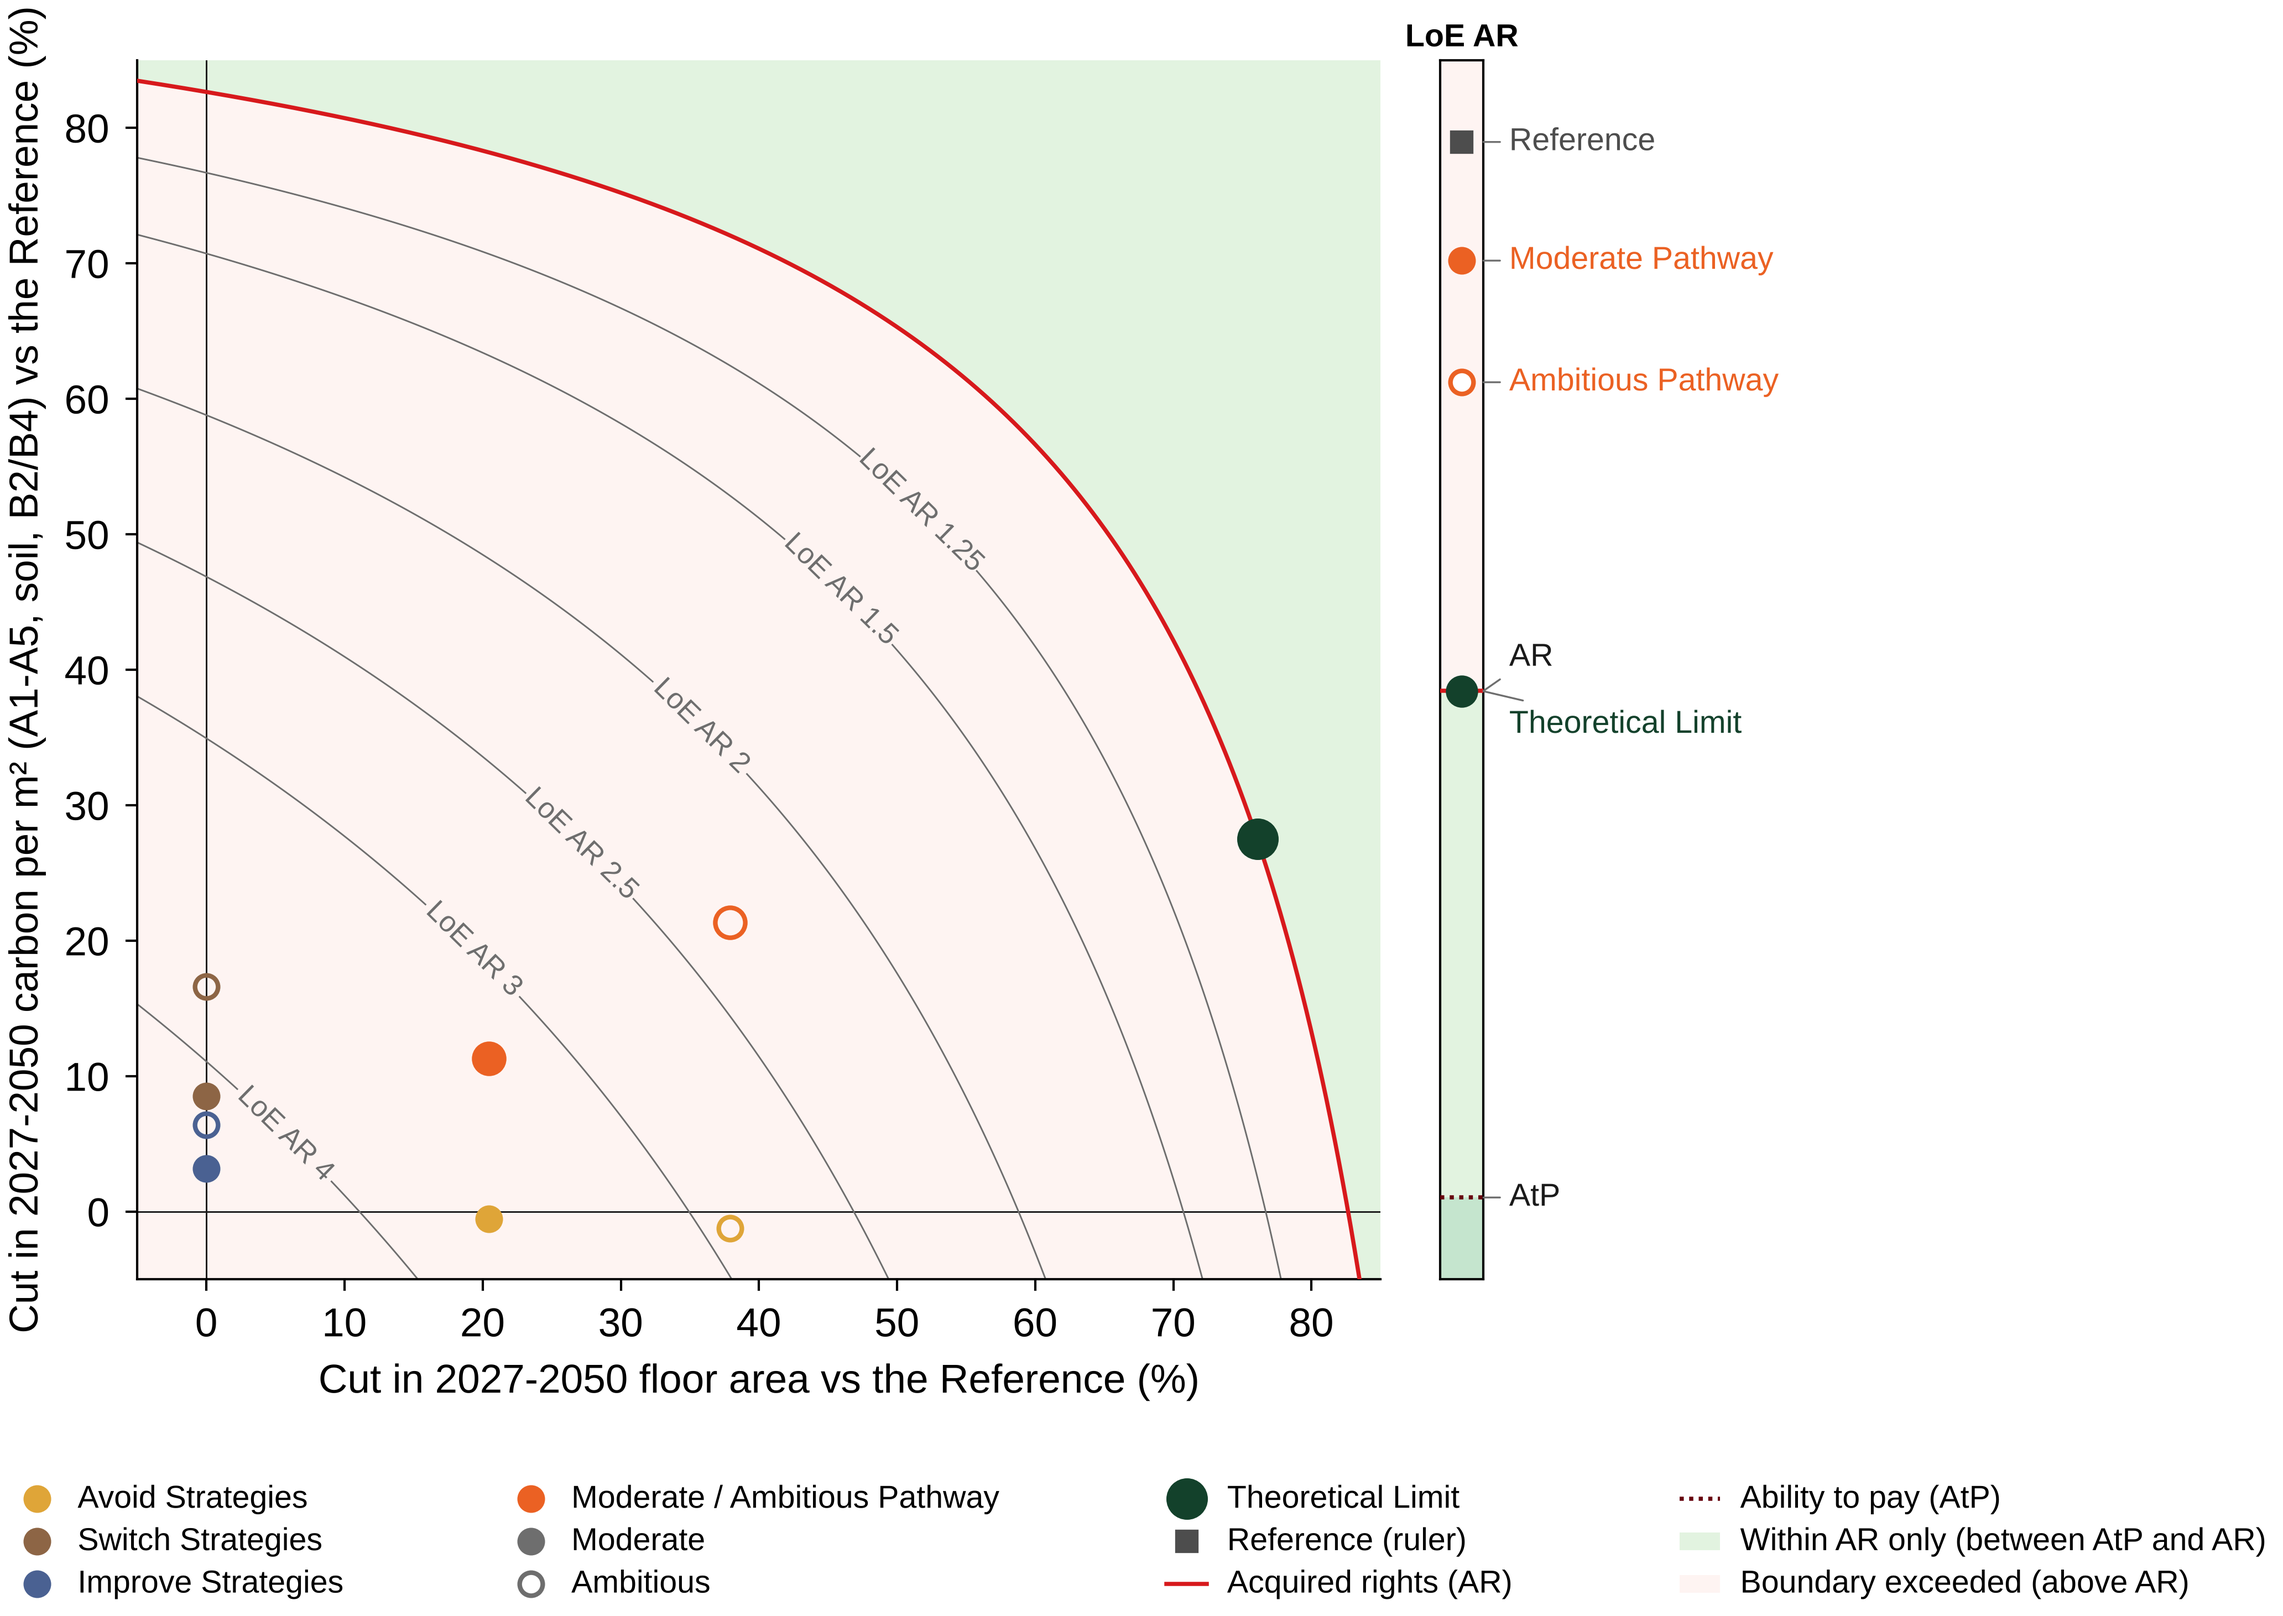
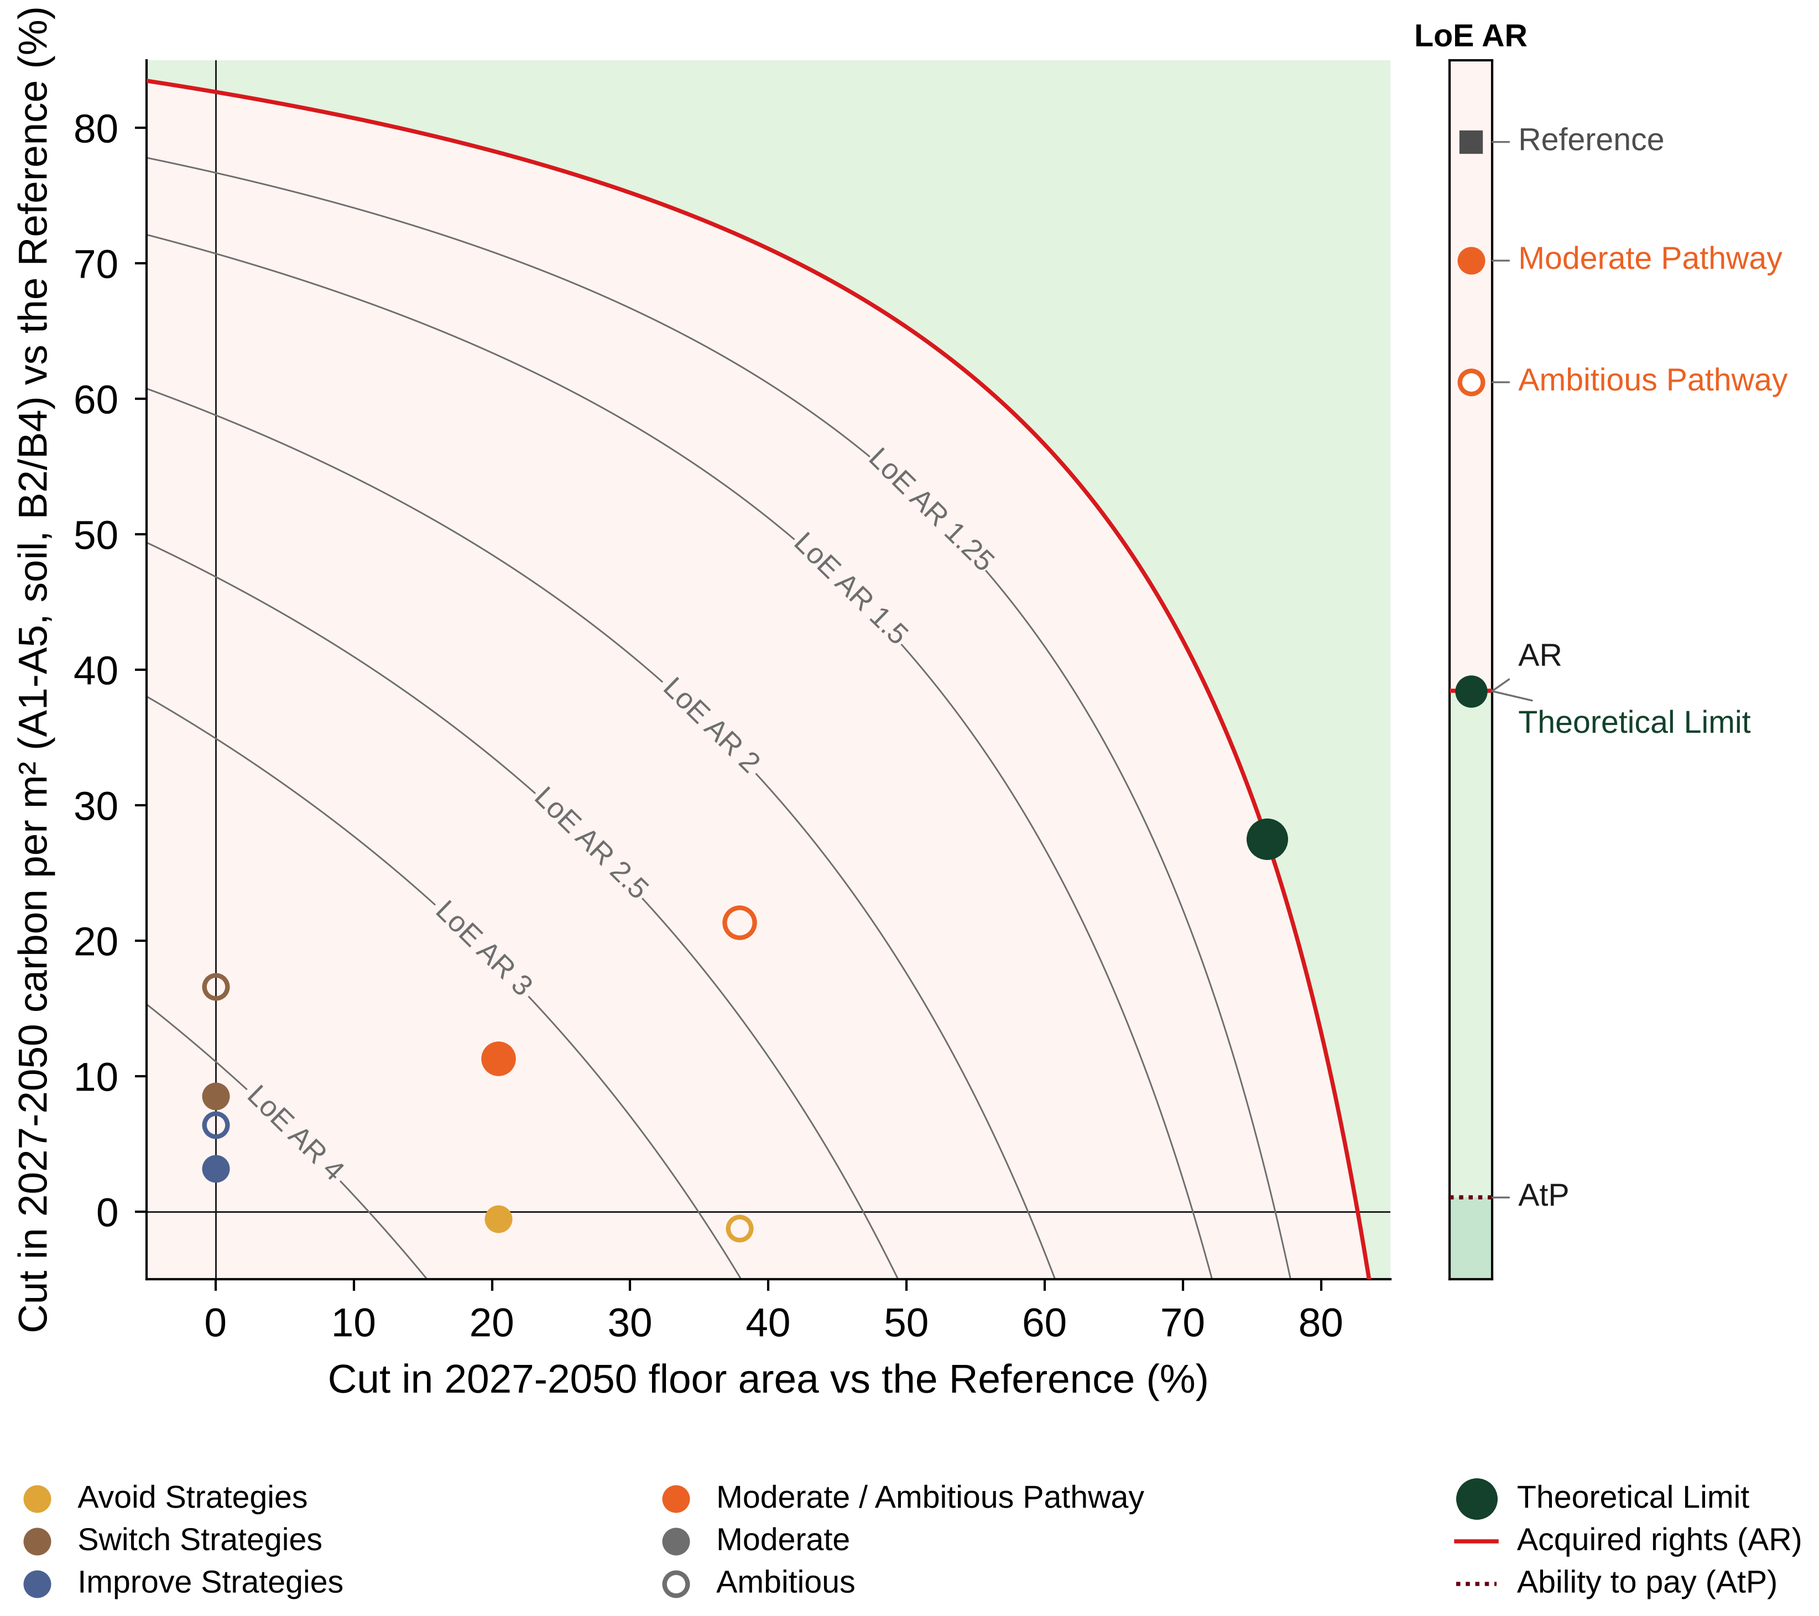
v4.2.2: final figure tweaks (Fig2, Fig3, Fig4, Fig6, Fig7, Fig8); figures-only export, data byte-identical
Claude-Session: https://claude.ai/code/session_01NA1ucL7dNsMwx6AQKd8NQE

diff --git a/figures/paper_main.py b/figures/paper_main.py
@@ -324,7 +324,7 @@ def fig2():
     years = band.index.values.astype(float)
     total = stg['carbon_kt'].values
     fig = plt.figure(figsize=S.figsize('double', 82))
-    gs = fig.add_gridspec(1, 4, width_ratios=[1, 1, 1, 0.62], wspace=0.12)
+    gs = fig.add_gridspec(1, 5, width_ratios=[1, 1, 1, 0.30, 0.62], wspace=0.12)   # MODEL v4.2.2: d axis on the left
     ax = [fig.add_subplot(gs[0])]
     ax += [fig.add_subplot(gs[k], sharey=ax[0]) for k in (1, 2)]
     P.stack_series(ax[0], years, [(b, band[b].values) for b in band.columns], net=total)
@@ -363,9 +363,10 @@ def fig2():
         h.set_label({'Market balance (excess, residual and scope adjustments)': 'Market balance',
                      'Household-size change': 'Household size', 'Maintenance (B2, B4)': 'Maintenance'}
                     .get(h.get_label(), h.get_label()))
+        h.set_label(h.get_label().replace(' ', '\n', 1))           # MODEL v4.2.2: two lines per entry
     ax[0].legend(handles=hb2, ncol=2, columnspacing=0.8, **LEG)
     # (d) cumulative 2026-2050: three attached columns of the same total
-    d = fig.add_subplot(gs[3])
+    d = fig.add_subplot(gs[4])
     c = float(total.sum())
     bsum = band.sum()
     msum = mat.sum()
@@ -389,15 +390,11 @@ def fig2():
     d.set_xlim(-0.5, 2.5)
     d.set_xticks([0, 1, 2])
     d.set_xticklabels(['By\ndemand', 'By\nmaterial', 'By\nstage'], fontsize=S.FONT_MIN + 0.5)
-    d.yaxis.tick_right()
-    d.yaxis.set_label_position('right')
-    d.spines['right'].set_visible(True)
-    d.spines['left'].set_visible(False)
     d.set_ylabel('Cumulative carbon 2026-2050 (kt CO₂e)')
     P.thousands(d.yaxis)
     d.grid(axis='x', visible=False)
     P.panel(d, 'd', 'Cumulative')
-    fig.subplots_adjust(left=0.07, right=0.93, bottom=0.12, top=0.92)
+    fig.subplots_adjust(left=0.07, right=0.99, bottom=0.12, top=0.92)
     _save(fig, 'Fig2_reference_carbon', note=f'2026-2050: {c:,.0f} kt CO₂e; (d) the demand column: positive bands '
                                               f'stacked to {sum(v for v in bsum if v > 0):,.0f} kt, negative bands '
                                               'outlined, hanging down to the total.')
@@ -432,7 +429,7 @@ def fig3():
     proj = D.js('baseline/projection.json')
     years = a.index.values.astype(float)
     fig = plt.figure(figsize=S.figsize('double', 66))                # MODEL v4.2.2: lower
-    gs = fig.add_gridspec(1, 2, width_ratios=[2.3, 1.2], wspace=0.28)
+    gs = fig.add_gridspec(1, 2, width_ratios=[2.3, 0.95], wspace=0.26)
     ax = fig.add_subplot(gs[0])
     ar, atp = a['B_AR_kgCO2e'].values / M, a['B_AtP_kgCO2e'].values / M
     S.boundary_zones(ax, years, ar, atp)
@@ -455,7 +452,7 @@ def fig3():
     zones = [h for h in S.zone_handles() if h.get_label() != S.ZONE['exceeded']['label']]
     ax.legend(handles=ax.get_legend_handles_labels()[0] + zones, loc='upper right', fontsize=S.FONT_MIN, ncol=2,
               columnspacing=1.0, frameon=False)
-    ax.set_ylim(0, ax.get_ylim()[1] * 1.22)                         # room for the two-column legend
+    ax.set_ylim(0, 1650)                                              # MODEL v4.2.2
     b = fig.add_subplot(gs[1])
     c = float(proj['carbon_kt'])
     lo95, hi95 = mc_cumulative_interval()
@@ -470,12 +467,12 @@ def fig3():
     bar_, batp = float(a['B_AR_kgCO2e'].sum()) / M, float(a['B_AtP_kgCO2e'].sum()) / M
     for v, key in ((bar_, 'AR'), (batp, 'AtP')):
         st = {k: val for k, val in S.BOUNDARY[key].items() if k != 'label'}
-        b.plot([-0.42, 0.42], [v, v], gid='boundary', **st)
-        b.text(-0.44, v, f'{key} budget', ha='right', va='center', fontsize=S.FONT_MIN, color=st['color'])
+        b.plot([-0.36, 0.36], [v, v], gid='boundary', **st)
+        b.text(-0.38, v, f'{key} budget', ha='right', va='center', fontsize=S.FONT_MIN, color=st['color'])
     cc, bl, bu = float(com['C_kt']), float(com['B_lower_kt']), float(com['B_upper_kt'])
     b.bar([1], [cc], width=wd, **S.fill(S.COMPONENT['committed'][0]))
     b.bar([1], [bl], bottom=[cc], width=wd, **S.fill(S.COMPONENT['maintenance'][0]))
-    b.set_xlim(-1.3, 1.6)
+    b.set_xlim(-1.04, 1.36)                                           # MODEL v4.2.2: tight
     b.set_xticks([0, 1])
     b.set_xticklabels(['2026–2050', 'Committed\nafter 2050'], fontsize=S.FONT_MIN + 0.5)
     b.set_ylim(0, max(hi95, bar_, cc + bl) * 1.48)
@@ -487,7 +484,8 @@ def fig3():
           Patch(label='50% interval', facecolor='#E6E6E6', edgecolor=S.INK, lw=S.LW_THIN),
           Patch(label='Committed after 2050: B2/B4', **S.fill(S.COMPONENT['maintenance'][0])),
           Patch(label='Committed after 2050: C1–C4', **S.fill(S.COMPONENT['committed'][0]))]
-    b.legend(handles=hb, loc='upper right', fontsize=S.FONT_MIN, handlelength=1.6)
+    b.legend(handles=hb, loc='upper left', fontsize=S.FONT_MIN, handlelength=1.6, frameon=False,
+             borderaxespad=0.2)
     P.panel(b, 'b', 'Cumulative')
     _save(fig, 'Fig3_reference_boundaries',
           note=f'Cumulative 2026-2050 {c:,.0f} kt (LoE AR {c / bar_:.2f}, AtP {c / batp:.1f}); Monte Carlo 95% interval '
@@ -573,7 +571,7 @@ def fig4():
         P.panel(b, letter, f'{N.SCENARIOS["REF"]} → {lab}')
     for b in ax[1:]:
         plt.setp(b.get_yticklabels(), visible=False)
-    ax[0].set_ylim(0, max(paths[0][3][0][1], bar_) * 1.1)
+    ax[0].set_ylim(0, max(paths[0][3][0][1], bar_) * 1.17)           # MODEL v4.2.2: room for the TL1 label
     ax[0].set_ylabel('Cumulative carbon 2026-2050 (kt CO₂e)')
     P.thousands(ax[0].yaxis)
     hs = [Patch(label=N.STRATEGIES[St], **S.fill(S.STRATEGY[St])) for St in N.STRATEGIES]
@@ -755,8 +753,8 @@ def fig6():
     g = np.linspace(lo, hi, FIG6_N)
     X, Y = np.meshgrid(g, g)
     Z = fig6_loe(bc, X, Y)
-    fig = plt.figure(figsize=S.figsize('double', 122))
-    ax = fig.add_axes([0.08, 0.215, 0.52, 0.765])
+    fig = plt.figure(figsize=(146 * S.MM, 122 * S.MM))              # MODEL v4.2.2: cropped at the ruler labels
+    ax = fig.add_axes([0.10, 0.215, 0.652, 0.765])
     S.boundary_field(ax, 100 * X, 100 * Y, Z, 1.0, atp_level, lines=False)
     st = {k: v for k, v in S.BOUNDARY['AR'].items() if k != 'label'}
     for xb, yb in fig6_branches(bc, 1.0):                          # the AR line, exact
@@ -787,7 +785,7 @@ def fig6():
     ax.set_ylim(100 * lo, 100 * hi)
     ax.grid(False)
     # the LoE AR ruler (log): zones, AR and AtP, the plane floor and the runs
-    ru = fig.add_axes([0.625, 0.215, 0.018, 0.765])
+    ru = fig.add_axes([0.783, 0.215, 0.0226, 0.765])
     marks = [(N.SCENARIOS['REF'], float(runs['REF']), dict(color=S.REFERENCE, marker='s', ms=4)),
              (N.PATHWAY_RUNS['pathway-moderate'], float(runs['pathway-moderate']),
               dict(color=S.PATHWAY[N.PATHWAY], marker='o', ms=5)),
@@ -826,8 +824,9 @@ def fig6():
           Line2D([0], [0], ls='none', color=S.TL, label=N.TL['TL'], **S.TL_MARKER),
           Line2D([0], [0], ls='none', color=S.REFERENCE, marker='s', ms=4, label=f"{N.SCENARIOS['REF']} (ruler)")]
     h += S.boundary_handles() + S.zone_handles()
-    h = [x for x in h if x.get_label() != S.ZONE['within_both']['label']]
-    fig.legend(handles=h, loc='lower left', bbox_to_anchor=(0.02, 0.0, 0.96, 0.1), mode='expand', ncol=4,
+    drop = {S.ZONE[k]['label'] for k in S.ZONE} | {f"{N.SCENARIOS['REF']} (ruler)"}
+    h = [x for x in h if x.get_label() not in drop]
+    fig.legend(handles=h, loc='lower left', bbox_to_anchor=(0.02, 0.0, 0.96, 0.1), mode='expand', ncol=3,
                frameon=False, fontsize=S.FONT_MIN + 0.5)
     for t in fig.findobj(matplotlib.text.Text):                     # MODEL v4.2.2: every font +25%
         if t.get_text():
@@ -886,9 +885,9 @@ def fig7():
     ax[0].set_yticks(y)
     ax[0].set_yticklabels([f'{L} {N.LEVERS[L]}' for L in order])
     ax[0].set_ylim(-0.6, len(order) - 0.4)
-    fig.legend(handles=[Patch(facecolor='none', edgecolor=S.MUTED, label='Moderate (Level 2)'),
-                        Patch(facecolor=S.MUTED, edgecolor=S.MUTED, label='Ambitious (Level 3)'),
-                        Line2D([0], [0], ls='none', color=S.TL, label='Theoretical limit (Level 4)', marker='o',
+    fig.legend(handles=[Patch(facecolor='none', edgecolor=S.MUTED, label='Moderate'),
+                        Patch(facecolor=S.MUTED, edgecolor=S.MUTED, label='Ambitious'),
+                        Line2D([0], [0], ls='none', color=S.TL, label='Theoretical limit', marker='o',
                                ms=5)],
                loc='lower center', ncol=3, fontsize=S.FONT_MIN + 0.5, frameon=False, bbox_to_anchor=(0.5, 0.0))
     fig.tight_layout(rect=(0, 0.07, 0.95, 1))
@@ -1007,6 +1006,8 @@ def fig8():
     a.axvline(c0, color=S.INK, lw=S.LW_THIN)
     a.set_yticks(np.arange(len(rows)))
     a.set_yticklabels([_fig8_short(r[0]) for r in rows], fontsize=S.FONT_SMALL)
+    for t in a.get_yticklabels():                                     # MODEL v4.2.2: both lines centred
+        t.set_multialignment('center')
     a.set_xlabel('Reference cumulative LoE AR 2026-2050')
     a.grid(axis='y', visible=False)
     a.legend(handles=[Patch(label='Input at low end', **S.fill(LOW_END)),

diff --git a/docs/CHANGELOG_v4_2_2.md b/docs/CHANGELOG_v4_2_2.md
@@ -19,3 +19,4 @@ Each column is the reduction vs the Reference, band by band: Reference band − 
   Reference. Its re-used dwellings are valued at the smaller TL new-dwelling size, and the pooled overbuild is
   re-occupied rather than paid back.
 * v4.2.2 styling: the history's RV exclusion is now spread pro rata across the display bands (bands.allocate_rv), so no RV segment appears in Fig1, Fig2 or Fig5 (the detailed RV band is kept in data and ED10). Fig5 caption added, and Market balance is its only negative segment. Arial font where installed (Liberation Sans fallback). Strategies renamed 'Avoid / Switch / Improve Strategies'. Fig1-Fig8 sizes, fonts and legends restyled; Fig6 axes now end at 85%.
+* Final figure tweaks: Fig2 two-line legend inside panel a, panel d y-axis on the left; Fig3 panel a y max 1,650, panel b legend upper left and tighter; Fig4 panel c headroom for the TL1 label; Fig6 legend 3×3 without the zone and ruler entries, cropped at the ruler labels; Fig7 legend Moderate / Ambitious / Theoretical limit; Fig8 panel a two-line tick labels centred. Figures-only export (600 dpi); data byte-identical.
